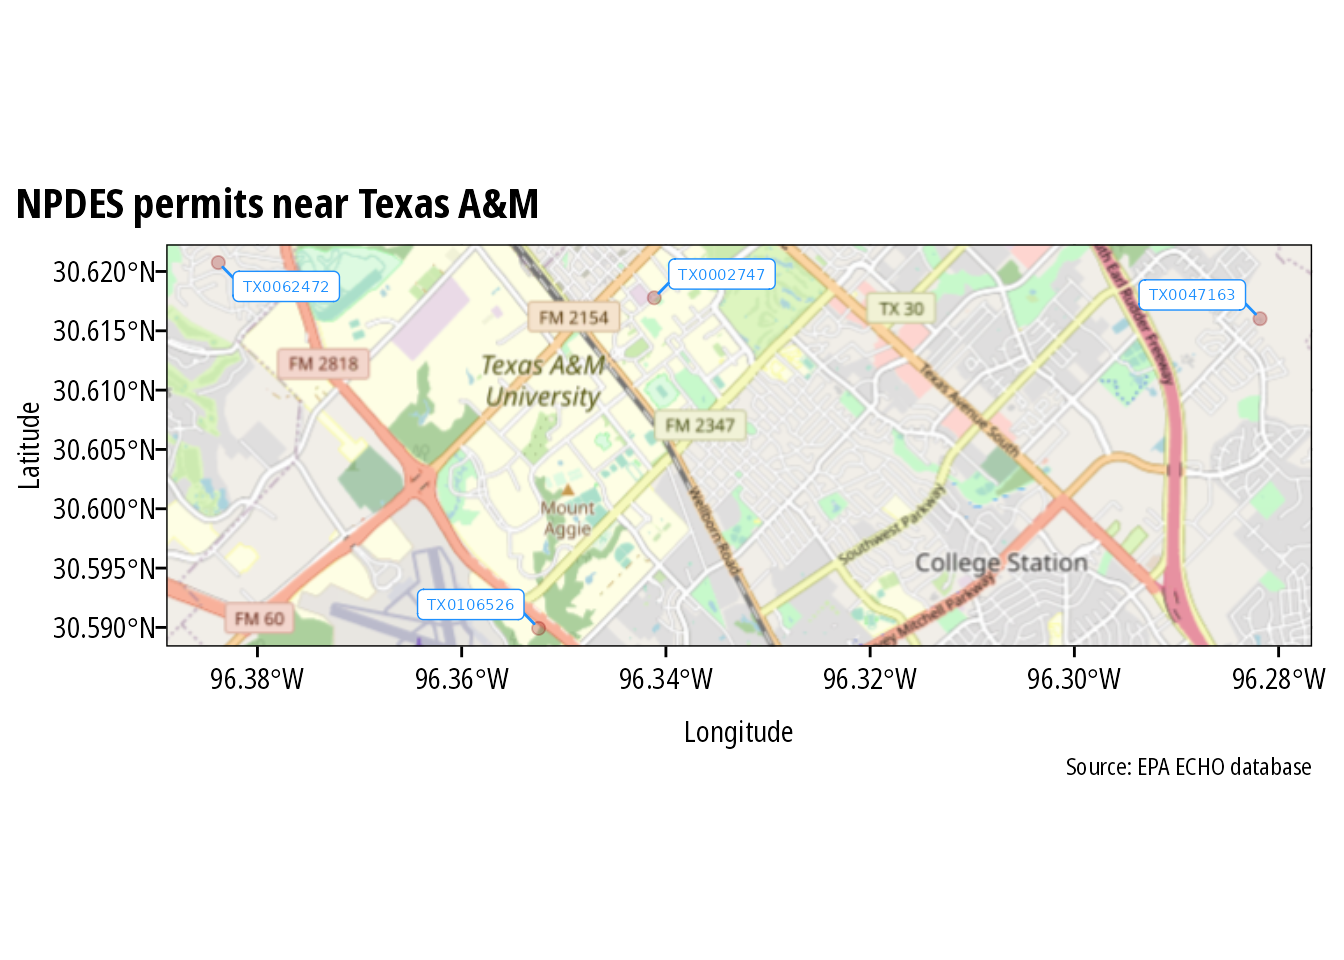
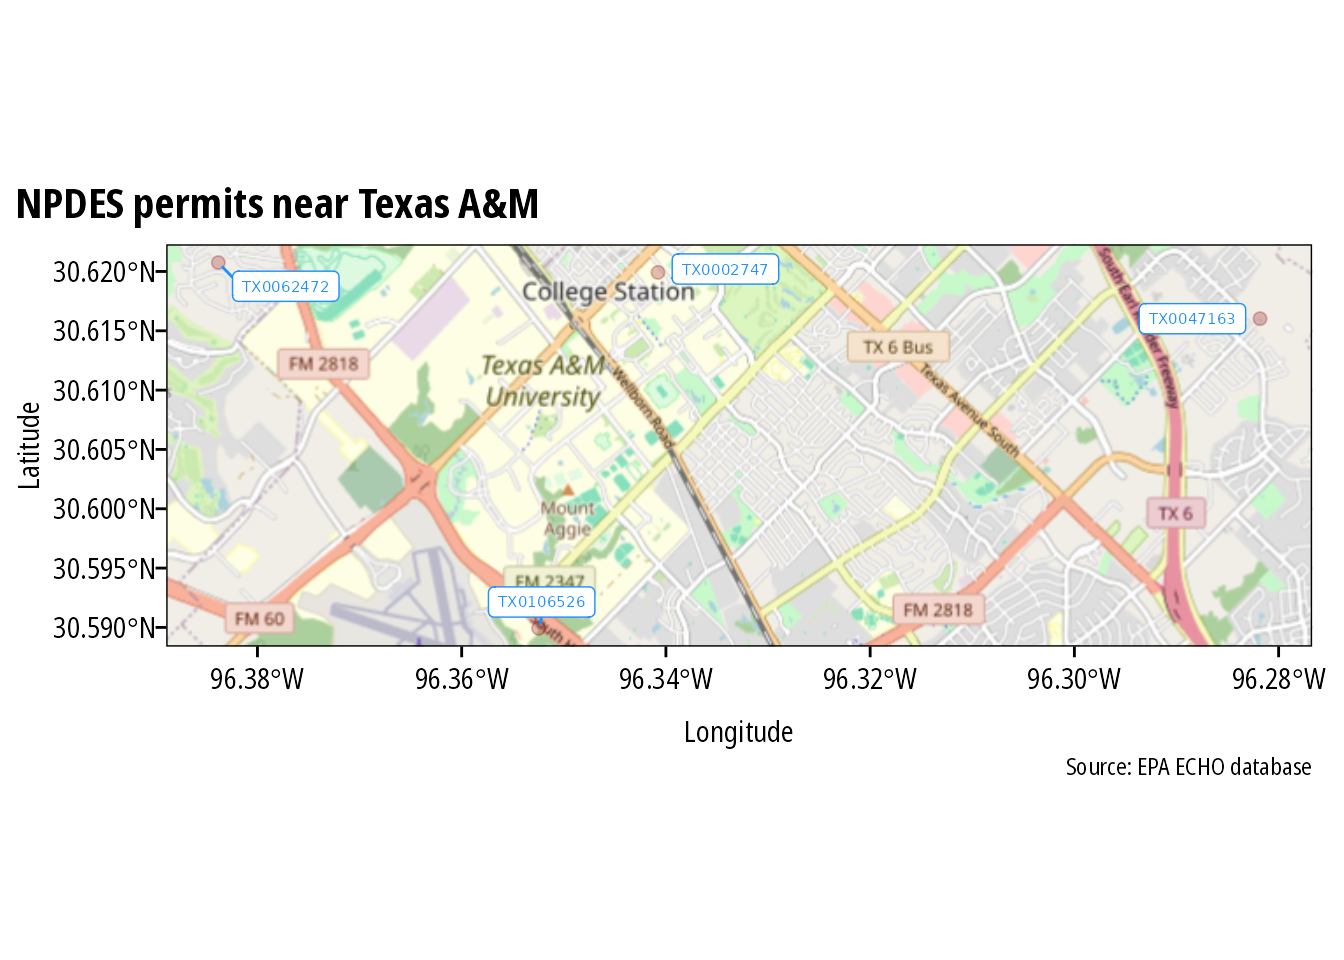
Re-build README.Rmd

diff --git a/README.md b/README.md
@@ -53,27 +53,27 @@ However, arguments can be looked up here:
     ## echoWaterGetFacilityInfo() will return a dataframe or simple features (sf) dataframe.
 
     df <- echoWaterGetFacilityInfo(output = "df", 
-                                   xmin = '-96.387509', 
-                                   ymin = '30.583572', 
-                                   xmax = '-96.281422', 
-                                   ymax = '30.640008',
+                                   p_c1lon = '-96.387509', 
+                                   p_c1lat = '30.583572', 
+                                   p_c2lon = '-96.281422', 
+                                   p_c2lat = '30.640008',
                                    p_ptype = "NPD")
 
     head(df)
     #> # A tibble: 4 × 26
     #>   CWPName            SourceID CWPStreet CWPCity CWPState CWPStateDistrict CWPZip
     #>   <chr>              <chr>    <chr>     <chr>   <chr>    <chr>            <chr> 
-    #> 1 CARTER CREEK WWTP  TX00471… 2200 NOR… COLLEG… TX       09               77845 
-    #> 2 CENTRAL UTILITY P… TX00027… 222 IREL… COLLEG… TX       09               77843 
+    #> 1 CARTERS CREEK WWTP TX00471… 2200 NOR… COLLEG… TX       09               77845 
+    #> 2 CENTRAL UTILITY P… TX00027… 1584 TAMU COLLEG… TX       09               77843 
     #> 3 HEAT TRANSFER RES… TX01065… 0.25MI S… COLLEG… TX       09               77845 
     #> 4 TURKEY CREEK WWTP  TX00624… 3000FT W… BRYAN   TX       09               77807 
     #> # ℹ 19 more variables: MasterExternalPermitNmbr <chr>, RegistryID <chr>,
-    #> #   CWPCounty <chr>, CWPEPARegion <chr>, FacDerivedHuc <chr>,
+    #> #   EPASystem <chr>, Statute <chr>, FacStdCountyName <chr>,
     #> #   CWPNAICSCodes <chr>, FacLat <dbl>, FacLong <dbl>,
-    #> #   CWPTotalDesignFlowNmbr <dbl>, DschToMs4 <chr>, ExposedActivity <chr>,
-    #> #   NPDESDataGroupsDescs <chr>, MsgpFacilityInspctnSmmry <chr>,
-    #> #   MsgpCorrectiveActionSmmry <chr>, AIRIDs <chr>, NPDESIDs <chr>,
-    #> #   SDWAIDs <chr>, AlrExceeds1yr <dbl>, CertifiedDate <date>
+    #> #   CWPTotalDesignFlowNmbr <dbl>, AIRIDs <chr>, CensusBlockGroup <chr>,
+    #> #   MileavgOver90CountSt <dbl>, MileOver90CountSt <dbl>,
+    #> #   SupOver80CountUsSearch <chr>, SupMileavgOver80CountUs <dbl>,
+    #> #   SupMileOver80CountUs <dbl>, SupMileOver80CountUsSearch <chr>, …
 
 The ECHO database can provide over 270 different columns. echor returns
 a subset of these columns that should work for most users. However, you
@@ -85,59 +85,53 @@ below, the `qcolumns` argument indicates the dataframe will include
 plant name, 8-digit HUC, latitude, longitude, and total design flow.
 
     df <- echoWaterGetFacilityInfo(output = "df", 
-                                   xmin = '-96.387509', 
-                                   ymin = '30.583572', 
-                                   xmax = '-96.281422', 
-                                   ymax = '30.640008',
+                                   p_c1lon = '-96.387509', 
+                                   p_c1lat = '30.583572', 
+                                   p_c2lon = '-96.281422', 
+                                   p_c2lat = '30.640008',
                                    qcolumns = '1,14,23,24,25',
                                    p_ptype = "NPD")
     head(df)
     #> # A tibble: 4 × 6
-    #>   CWPName                SourceID  FacDerivedHuc CWPNAICSCodes FacLat FacLong
-    #>   <chr>                  <chr>     <chr>         <chr>          <dbl>   <dbl>
-    #> 1 CARTER CREEK WWTP      TX0047163 12070103      <NA>            30.6   -96.3
-    #> 2 CENTRAL UTILITY PLANT  TX0002747 12070103      <NA>            30.6   -96.3
-    #> 3 HEAT TRANSFER RESEARCH TX0106526 12070101      <NA>            30.6   -96.4
-    #> 4 TURKEY CREEK WWTP      TX0062472 12070101      <NA>            30.6   -96.4
+    #>   CWPName                SourceID  FacStdCountyName CWPNAICSCodes FacLat FacLong
+    #>   <chr>                  <chr>     <chr>            <chr>          <dbl>   <dbl>
+    #> 1 CARTERS CREEK WWTP     TX0047163 BRAZOS COUNTY    <NA>            30.6   -96.3
+    #> 2 CENTRAL UTILITY PLANT  TX0002747 BRAZOS COUNTY    <NA>            30.6   -96.3
+    #> 3 HEAT TRANSFER RESEARCH TX0106526 BRAZOS COUNTY    <NA>            30.6   -96.4
+    #> 4 TURKEY CREEK WWTP      TX0062472 BRAZOS COUNTY    <NA>            30.6   -96.4
 
 When returned as sf dataframes, the data is suitable for immediate
-spatial plotting or analysis **note: the spatial data endpoints do not
-currently appear to be functioning**
+spatial plotting or analysis.
 
     library(ggspatial)
     library(sf)
     library(ggrepel)
-    library(purrr)
+    library(prettymapr)
 
     df <- echoWaterGetFacilityInfo(output = "sf", 
-                                   xmin = '-96.387509', 
-                                   ymin = '30.583572', 
-                                   xmax = '-96.281422', 
-                                   ymax = '30.640008',
+                                   p_c1lon = '-96.387509', 
+                                   p_c1lat = '30.583572', 
+                                   p_c2lon = '-96.281422', 
+                                   p_c2lat = '30.640008',
                                    p_ptype = "NPD")
 
-    ##to make labels, need to map the coords and use geom_text :(
-    ## can't help but think there is an easier way to do this
-
-    df <- df %>%
-      mutate(
-        coords = map(geometry, st_coordinates),
-        coords_x = map_dbl(coords, 1),
-        coords_y = map_dbl(coords, 2)
-      )
 
     ggplot(df) +
       annotation_map_tile(zoomin = -1, progress = "none") +
       geom_sf(inherit.aes = FALSE, shape = 21, 
               color = "darkred", fill = "darkred", 
               size = 2, alpha = 0.25) +
-      geom_label_repel(data = df, aes(x = coords_x, y = coords_y, label = SourceID),
+      geom_label_repel(data = df, aes(label = SourceID,
+                                      geometry = geometry),
+                       stat = "sf_coordinates",
                        point.padding = .5, min.segment.length = 0.1,
                        size = 2, color = "dodgerblue") +
       theme_mps_noto() +
       labs(x = "Longitude", y = "Latitude", 
            title = "NPDES permits near Texas A&M",
            caption = "Source: EPA ECHO database")
+
+<img src="man/figures/README-example3-1.png" width="100%" />
 
 ### Download discharge/emissions data
 
@@ -169,85 +163,96 @@ that all variables are returned as *character* vectors.
 
     sessioninfo::platform_info()
     #>  setting  value
-    #>  version  R version 4.3.1 (2023-06-16)
-    #>  os       Ubuntu 22.04.2 LTS
+    #>  version  R version 4.4.0 (2024-04-24)
+    #>  os       Ubuntu 22.04.4 LTS
     #>  system   x86_64, linux-gnu
     #>  ui       X11
     #>  language (EN)
     #>  collate  C.UTF-8
     #>  ctype    C.UTF-8
     #>  tz       UTC
-    #>  date     2023-06-22
-    #>  pandoc   2.19.2 @ /usr/bin/ (via rmarkdown)
+    #>  date     2024-05-15
+    #>  pandoc   3.1.11 @ /opt/hostedtoolcache/pandoc/3.1.11/x64/ (via rmarkdown)
+
     sessioninfo::package_info()
-    #>  ! package      * version date (UTC) lib source
-    #>    bit            4.0.5   2022-11-15 [1] CRAN (R 4.3.1)
-    #>    bit64          4.0.5   2020-08-30 [1] CRAN (R 4.3.1)
-    #>  P class          7.3-22  2023-05-03 [?] CRAN (R 4.3.1)
-    #>    classInt       0.4-9   2023-02-28 [1] CRAN (R 4.3.1)
-    #>    cli            3.6.1   2023-03-23 [1] CRAN (R 4.3.1)
-    #>    colorspace     2.1-0   2023-01-23 [1] CRAN (R 4.3.1)
-    #>    crayon         1.5.2   2022-09-29 [1] CRAN (R 4.3.1)
-    #>    curl           5.0.1   2023-06-07 [1] CRAN (R 4.3.1)
-    #>    DBI            1.1.3   2022-06-18 [1] CRAN (R 4.3.1)
-    #>    digest         0.6.31  2022-12-11 [1] CRAN (R 4.3.1)
-    #>    dplyr        * 1.1.2   2023-04-20 [1] CRAN (R 4.3.1)
-    #>    e1071          1.7-13  2023-02-01 [1] CRAN (R 4.3.1)
-    #>    echor        * 0.1.9   2023-06-22 [1] local
-    #>    evaluate       0.21    2023-05-05 [1] CRAN (R 4.3.1)
-    #>    fansi          1.0.4   2023-01-22 [1] CRAN (R 4.3.1)
-    #>    farver         2.1.1   2022-07-06 [1] CRAN (R 4.3.1)
-    #>    fastmap        1.1.1   2023-02-24 [1] CRAN (R 4.3.1)
-    #>    fs             1.6.2   2023-04-25 [1] CRAN (R 4.3.1)
-    #>    generics       0.1.3   2022-07-05 [1] CRAN (R 4.3.1)
-    #>    ggplot2      * 3.4.2   2023-04-03 [1] CRAN (R 4.3.1)
-    #>    glue           1.6.2   2022-02-24 [1] CRAN (R 4.3.1)
-    #>    gtable         0.3.3   2023-03-21 [1] CRAN (R 4.3.1)
-    #>    highr          0.10    2022-12-22 [1] CRAN (R 4.3.1)
-    #>    hms            1.1.3   2023-03-21 [1] CRAN (R 4.3.1)
-    #>    htmltools      0.5.5   2023-03-23 [1] CRAN (R 4.3.1)
-    #>    httr           1.4.6   2023-05-08 [1] CRAN (R 4.3.1)
-    #>    jsonlite       1.8.5   2023-06-05 [1] CRAN (R 4.3.1)
-    #>  P KernSmooth     2.23-21 2023-05-03 [?] CRAN (R 4.3.1)
-    #>    knitr          1.43    2023-05-25 [1] CRAN (R 4.3.1)
-    #>    labeling       0.4.2   2020-10-20 [1] CRAN (R 4.3.1)
-    #>    lifecycle      1.0.3   2022-10-07 [1] CRAN (R 4.3.1)
-    #>    magrittr       2.0.3   2022-03-30 [1] CRAN (R 4.3.1)
-    #>  P mpsTemplates * 0.2.0   2023-06-20 [?] Github (mps9506/mpsTemplates@d7a070e)
-    #>    munsell        0.5.0   2018-06-12 [1] CRAN (R 4.3.1)
-    #>    pillar         1.9.0   2023-03-22 [1] CRAN (R 4.3.1)
-    #>    pkgconfig      2.0.3   2019-09-22 [1] CRAN (R 4.3.1)
-    #>    plyr           1.8.8   2022-11-11 [1] CRAN (R 4.3.1)
-    #>    prettyunits    1.1.1   2020-01-24 [1] CRAN (R 4.3.1)
-    #>    progress       1.2.2   2019-05-16 [1] CRAN (R 4.3.1)
-    #>    proxy          0.4-27  2022-06-09 [1] CRAN (R 4.3.1)
-    #>    purrr          1.0.1   2023-01-10 [1] CRAN (R 4.3.1)
-    #>    R6             2.5.1   2021-08-19 [1] CRAN (R 4.3.1)
-    #>  P ragg         * 1.2.5   2023-01-12 [?] RSPM (R 4.3.0)
-    #>    Rcpp           1.0.10  2023-01-22 [1] CRAN (R 4.3.1)
-    #>    readr          2.1.4   2023-02-10 [1] CRAN (R 4.3.1)
-    #>  P renv           0.17.3  2023-04-06 [?] RSPM (R 4.3.0)
-    #>    rlang          1.1.1   2023-04-28 [1] CRAN (R 4.3.1)
-    #>    rmarkdown      2.22    2023-06-01 [1] CRAN (R 4.3.1)
-    #>    rstudioapi     0.14    2022-08-22 [1] CRAN (R 4.3.1)
-    #>    scales         1.2.1   2022-08-20 [1] CRAN (R 4.3.1)
-    #>    sessioninfo    1.2.2   2021-12-06 [1] any (@1.2.2)
-    #>    sf             1.0-13  2023-05-24 [1] CRAN (R 4.3.1)
-    #>    systemfonts    1.0.4   2022-02-11 [1] CRAN (R 4.3.1)
-    #>  P textshaping    0.3.6   2021-10-13 [?] RSPM (R 4.3.0)
-    #>    tibble         3.2.1   2023-03-20 [1] CRAN (R 4.3.1)
-    #>    tidyr          1.3.0   2023-01-24 [1] CRAN (R 4.3.1)
-    #>    tidyselect     1.2.0   2022-10-10 [1] CRAN (R 4.3.1)
-    #>    tzdb           0.4.0   2023-05-12 [1] CRAN (R 4.3.1)
-    #>    units          0.8-2   2023-04-27 [1] CRAN (R 4.3.1)
-    #>    utf8           1.2.3   2023-01-31 [1] CRAN (R 4.3.1)
-    #>    vctrs          0.6.3   2023-06-14 [1] CRAN (R 4.3.1)
-    #>    vroom          1.6.3   2023-04-28 [1] CRAN (R 4.3.1)
-    #>    withr          2.5.0   2022-03-03 [1] CRAN (R 4.3.1)
-    #>    xfun           0.39    2023-04-20 [1] CRAN (R 4.3.1)
-    #>    yaml           2.3.7   2023-01-23 [1] CRAN (R 4.3.1)
+    #>  ! package      * version    date (UTC) lib source
+    #>    abind          1.4-5      2016-07-21 [1] CRAN (R 4.4.0)
+    #>    bit            4.0.5      2022-11-15 [1] CRAN (R 4.4.0)
+    #>    bit64          4.0.5      2020-08-30 [1] CRAN (R 4.4.0)
+    #>  P class          7.3-22     2023-05-03 [?] CRAN (R 4.4.0)
+    #>    classInt       0.4-10     2023-09-05 [1] CRAN (R 4.4.0)
+    #>    cli            3.6.2      2023-12-11 [1] CRAN (R 4.4.0)
+    #>  P codetools      0.2-20     2024-03-31 [?] CRAN (R 4.4.0)
+    #>    colorspace     2.1-0      2023-01-23 [1] CRAN (R 4.4.0)
+    #>    crayon         1.5.2      2022-09-29 [1] CRAN (R 4.4.0)
+    #>    curl           5.2.1      2024-03-01 [1] CRAN (R 4.4.0)
+    #>    DBI            1.2.2      2024-02-16 [1] CRAN (R 4.4.0)
+    #>    digest         0.6.35     2024-03-11 [1] CRAN (R 4.4.0)
+    #>    dplyr        * 1.1.4      2023-11-17 [1] CRAN (R 4.4.0)
+    #>    e1071          1.7-14     2023-12-06 [1] CRAN (R 4.4.0)
+    #>    echor        * 0.1.9.9999 2024-05-15 [1] local
+    #>    evaluate       0.23       2023-11-01 [1] CRAN (R 4.4.0)
+    #>    fansi          1.0.6      2023-12-08 [1] CRAN (R 4.4.0)
+    #>    farver         2.1.2      2024-05-13 [1] CRAN (R 4.4.0)
+    #>    fastmap        1.2.0      2024-05-15 [1] CRAN (R 4.4.0)
+    #>    fs             1.6.4      2024-04-25 [1] CRAN (R 4.4.0)
+    #>    generics       0.1.3      2022-07-05 [1] CRAN (R 4.4.0)
+    #>    ggplot2      * 3.5.1      2024-04-23 [1] CRAN (R 4.4.0)
+    #>    ggrepel      * 0.9.5      2024-01-10 [1] CRAN (R 4.4.0)
+    #>    ggspatial    * 1.1.9      2023-08-17 [1] CRAN (R 4.4.0)
+    #>    glue           1.7.0      2024-01-09 [1] CRAN (R 4.4.0)
+    #>    gtable         0.3.5      2024-04-22 [1] CRAN (R 4.4.0)
+    #>    highr          0.10       2022-12-22 [1] CRAN (R 4.4.0)
+    #>    hms            1.1.3      2023-03-21 [1] CRAN (R 4.4.0)
+    #>    htmltools      0.5.8.1    2024-04-04 [1] CRAN (R 4.4.0)
+    #>    httr           1.4.7      2023-08-15 [1] CRAN (R 4.4.0)
+    #>    jsonlite       1.8.8      2023-12-04 [1] CRAN (R 4.4.0)
+    #>  P KernSmooth     2.23-22    2023-07-10 [?] CRAN (R 4.4.0)
+    #>    knitr          1.46       2024-04-06 [1] CRAN (R 4.4.0)
+    #>    labeling       0.4.3      2023-08-29 [1] CRAN (R 4.4.0)
+    #>  P lattice        0.22-6     2024-03-20 [?] CRAN (R 4.4.0)
+    #>    lifecycle      1.0.4      2023-11-07 [1] CRAN (R 4.4.0)
+    #>    magrittr       2.0.3      2022-03-30 [1] CRAN (R 4.4.0)
+    #>  P mpsTemplates * 0.2.0      2024-05-15 [?] Github (mps9506/mpsTemplates@d7a070e)
+    #>    munsell        0.5.1      2024-04-01 [1] CRAN (R 4.4.0)
+    #>    pillar         1.9.0      2023-03-22 [1] CRAN (R 4.4.0)
+    #>    pkgconfig      2.0.3      2019-09-22 [1] CRAN (R 4.4.0)
+    #>    plyr           1.8.9      2023-10-02 [1] CRAN (R 4.4.0)
+    #>    png            0.1-8      2022-11-29 [1] CRAN (R 4.4.0)
+    #>    prettymapr   * 0.2.5      2024-02-23 [1] CRAN (R 4.4.0)
+    #>    prettyunits    1.2.0      2023-09-24 [1] CRAN (R 4.4.0)
+    #>    progress       1.2.3      2023-12-06 [1] CRAN (R 4.4.0)
+    #>    proxy          0.4-27     2022-06-09 [1] CRAN (R 4.4.0)
+    #>    purrr          1.0.2      2023-08-10 [1] CRAN (R 4.4.0)
+    #>    R6             2.5.1      2021-08-19 [1] CRAN (R 4.4.0)
+    #>  P ragg         * 1.3.1      2024-05-06 [?] RSPM (R 4.4.0)
+    #>    raster         3.6-26     2023-10-14 [1] CRAN (R 4.4.0)
+    #>    Rcpp           1.0.12     2024-01-09 [1] CRAN (R 4.4.0)
+    #>    readr          2.1.5      2024-01-10 [1] CRAN (R 4.4.0)
+    #>    renv           1.0.7      2024-04-11 [1] RSPM (R 4.4.0)
+    #>    rlang          1.1.3      2024-01-10 [1] CRAN (R 4.4.0)
+    #>    rmarkdown      2.26       2024-03-05 [1] CRAN (R 4.4.0)
+    #>    rosm           0.3.0      2023-08-27 [1] CRAN (R 4.4.0)
+    #>    scales         1.3.0      2023-11-28 [1] CRAN (R 4.4.0)
+    #>    sessioninfo    1.2.2      2021-12-06 [1] any (@1.2.2)
+    #>    sf           * 1.0-16     2024-03-24 [1] CRAN (R 4.4.0)
+    #>    sp             2.1-4      2024-04-30 [1] CRAN (R 4.4.0)
+    #>    systemfonts    1.1.0      2024-05-15 [1] CRAN (R 4.4.0)
+    #>    terra          1.7-71     2024-01-31 [1] CRAN (R 4.4.0)
+    #>  P textshaping    0.3.7      2023-10-09 [?] RSPM (R 4.4.0)
+    #>    tibble         3.2.1      2023-03-20 [1] CRAN (R 4.4.0)
+    #>    tidyr          1.3.1      2024-01-24 [1] CRAN (R 4.4.0)
+    #>    tidyselect     1.2.1      2024-03-11 [1] CRAN (R 4.4.0)
+    #>    tzdb           0.4.0      2023-05-12 [1] CRAN (R 4.4.0)
+    #>    units          0.8-5      2023-11-28 [1] CRAN (R 4.4.0)
+    #>    utf8           1.2.4      2023-10-22 [1] CRAN (R 4.4.0)
+    #>    vctrs          0.6.5      2023-12-01 [1] CRAN (R 4.4.0)
+    #>    vroom          1.6.5      2023-12-05 [1] CRAN (R 4.4.0)
+    #>    withr          3.0.0      2024-01-16 [1] CRAN (R 4.4.0)
+    #>    xfun           0.44       2024-05-15 [1] CRAN (R 4.4.0)
+    #>    yaml           2.3.8      2023-12-11 [1] CRAN (R 4.4.0)
     #> 
-    #>  [1] /home/runner/.cache/R/renv/library/echor-4ec080d0/R-4.3/x86_64-pc-linux-gnu
-    #>  [2] /home/runner/.cache/R/renv/sandbox/R-4.3/x86_64-pc-linux-gnu/5cd49154
+    #>  [1] /home/runner/.cache/R/renv/library/echor-4ec080d0/linux-ubuntu-jammy/R-4.4/x86_64-pc-linux-gnu
+    #>  [2] /home/runner/.cache/R/renv/sandbox/linux-ubuntu-jammy/R-4.4/x86_64-pc-linux-gnu/3df92652
     #> 
     #>  P ── Loaded and on-disk path mismatch.
